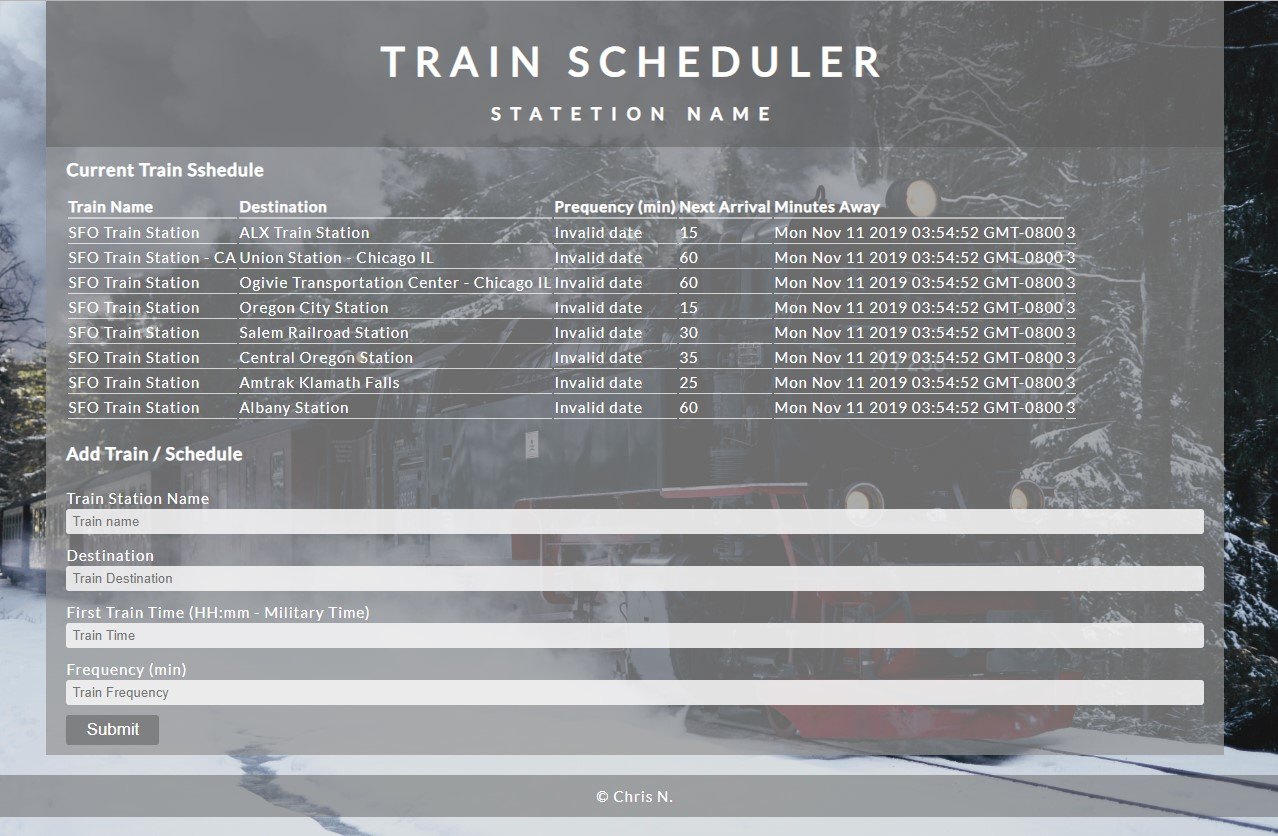
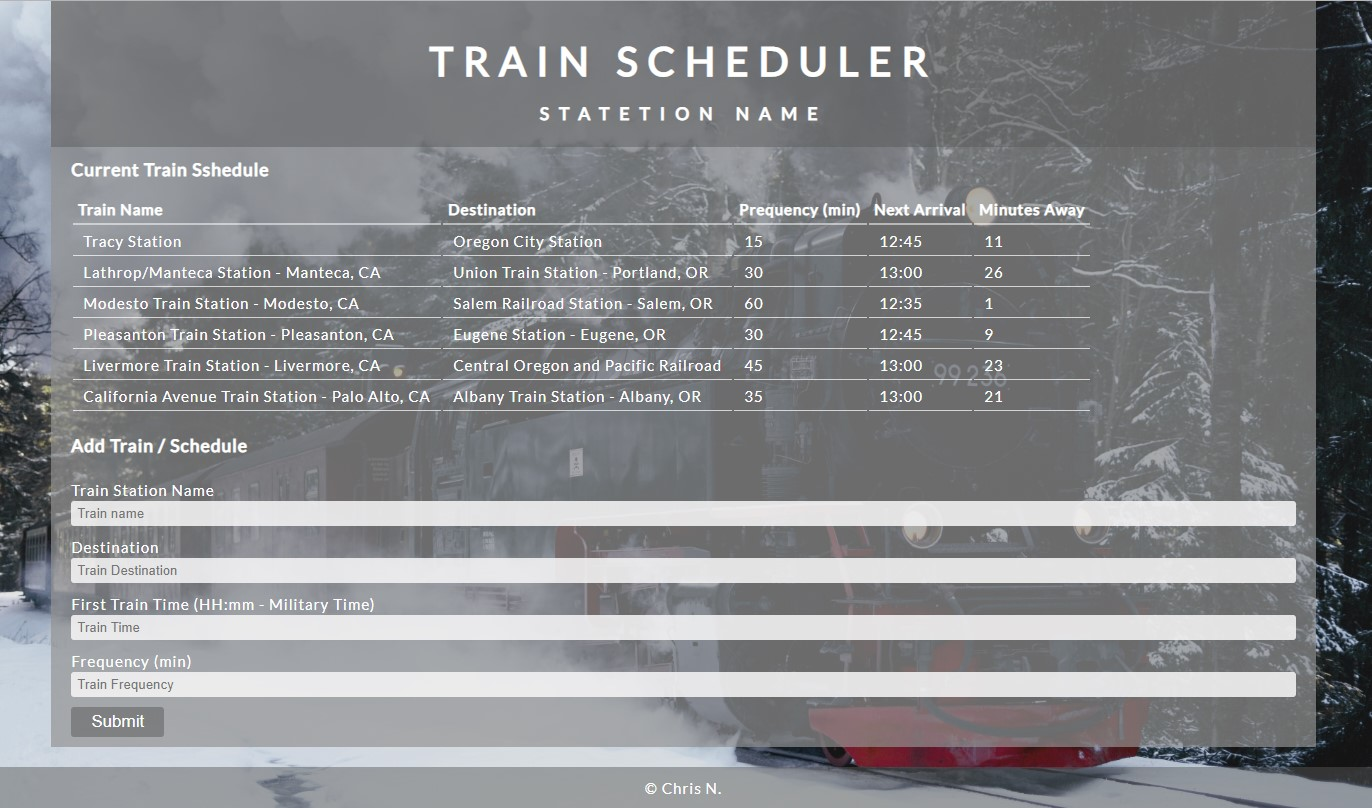
Fixed spacing for table columns, and update product sreenshot image

diff --git a/css/styles.css b/css/styles.css
@@ -77,11 +77,13 @@ body {
 
 th {
   /* width: 100%; */
+  padding: 3px 5px;
   text-align: left;
   border-bottom: 2px solid #ffffff83;
 }
 
 td {
+  padding: 3px 10px;
   border-bottom: 1px solid #ffffffb4;
 }
 
